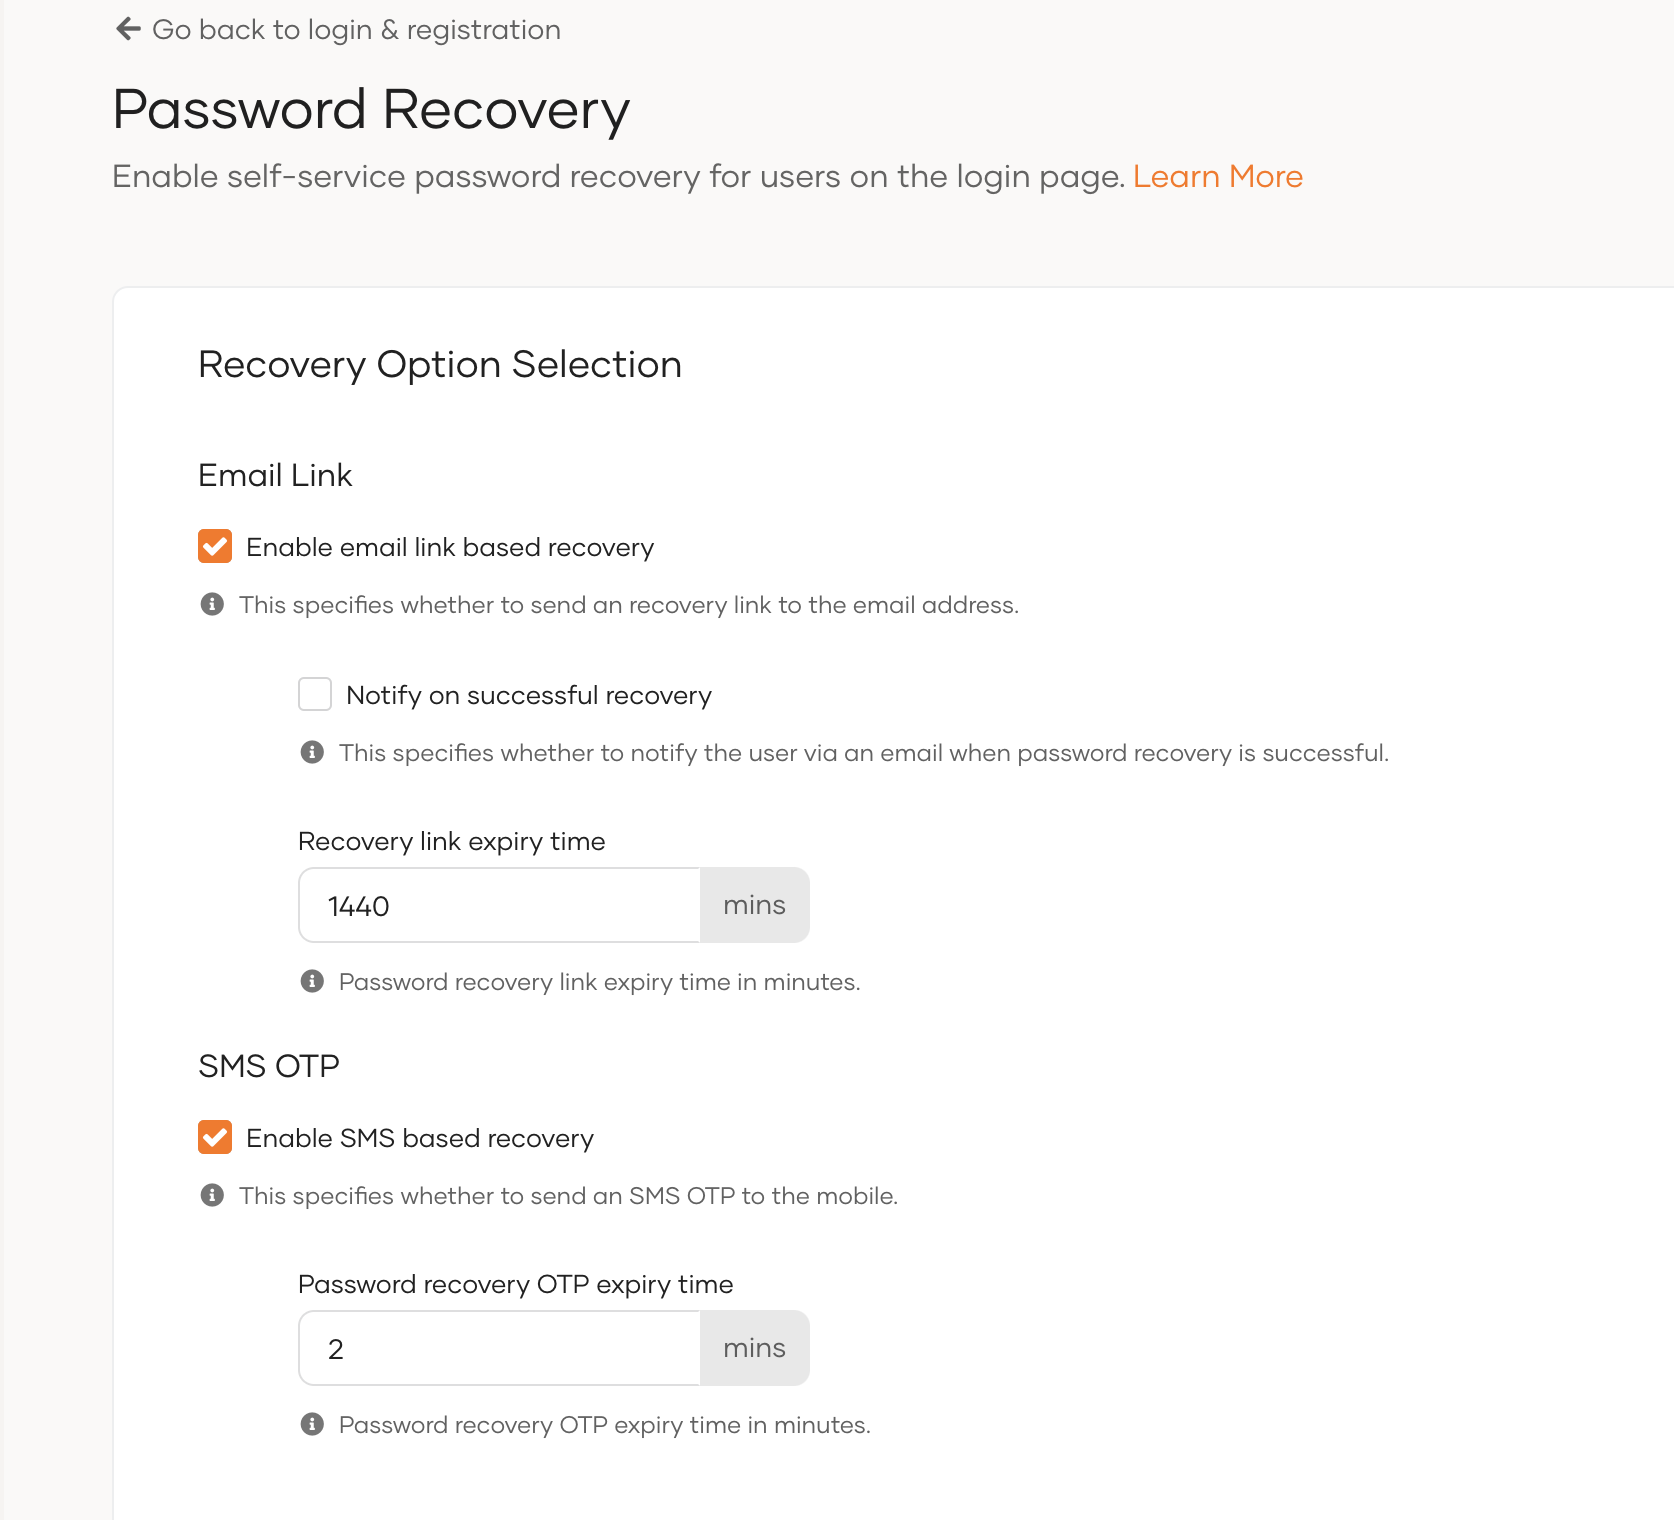
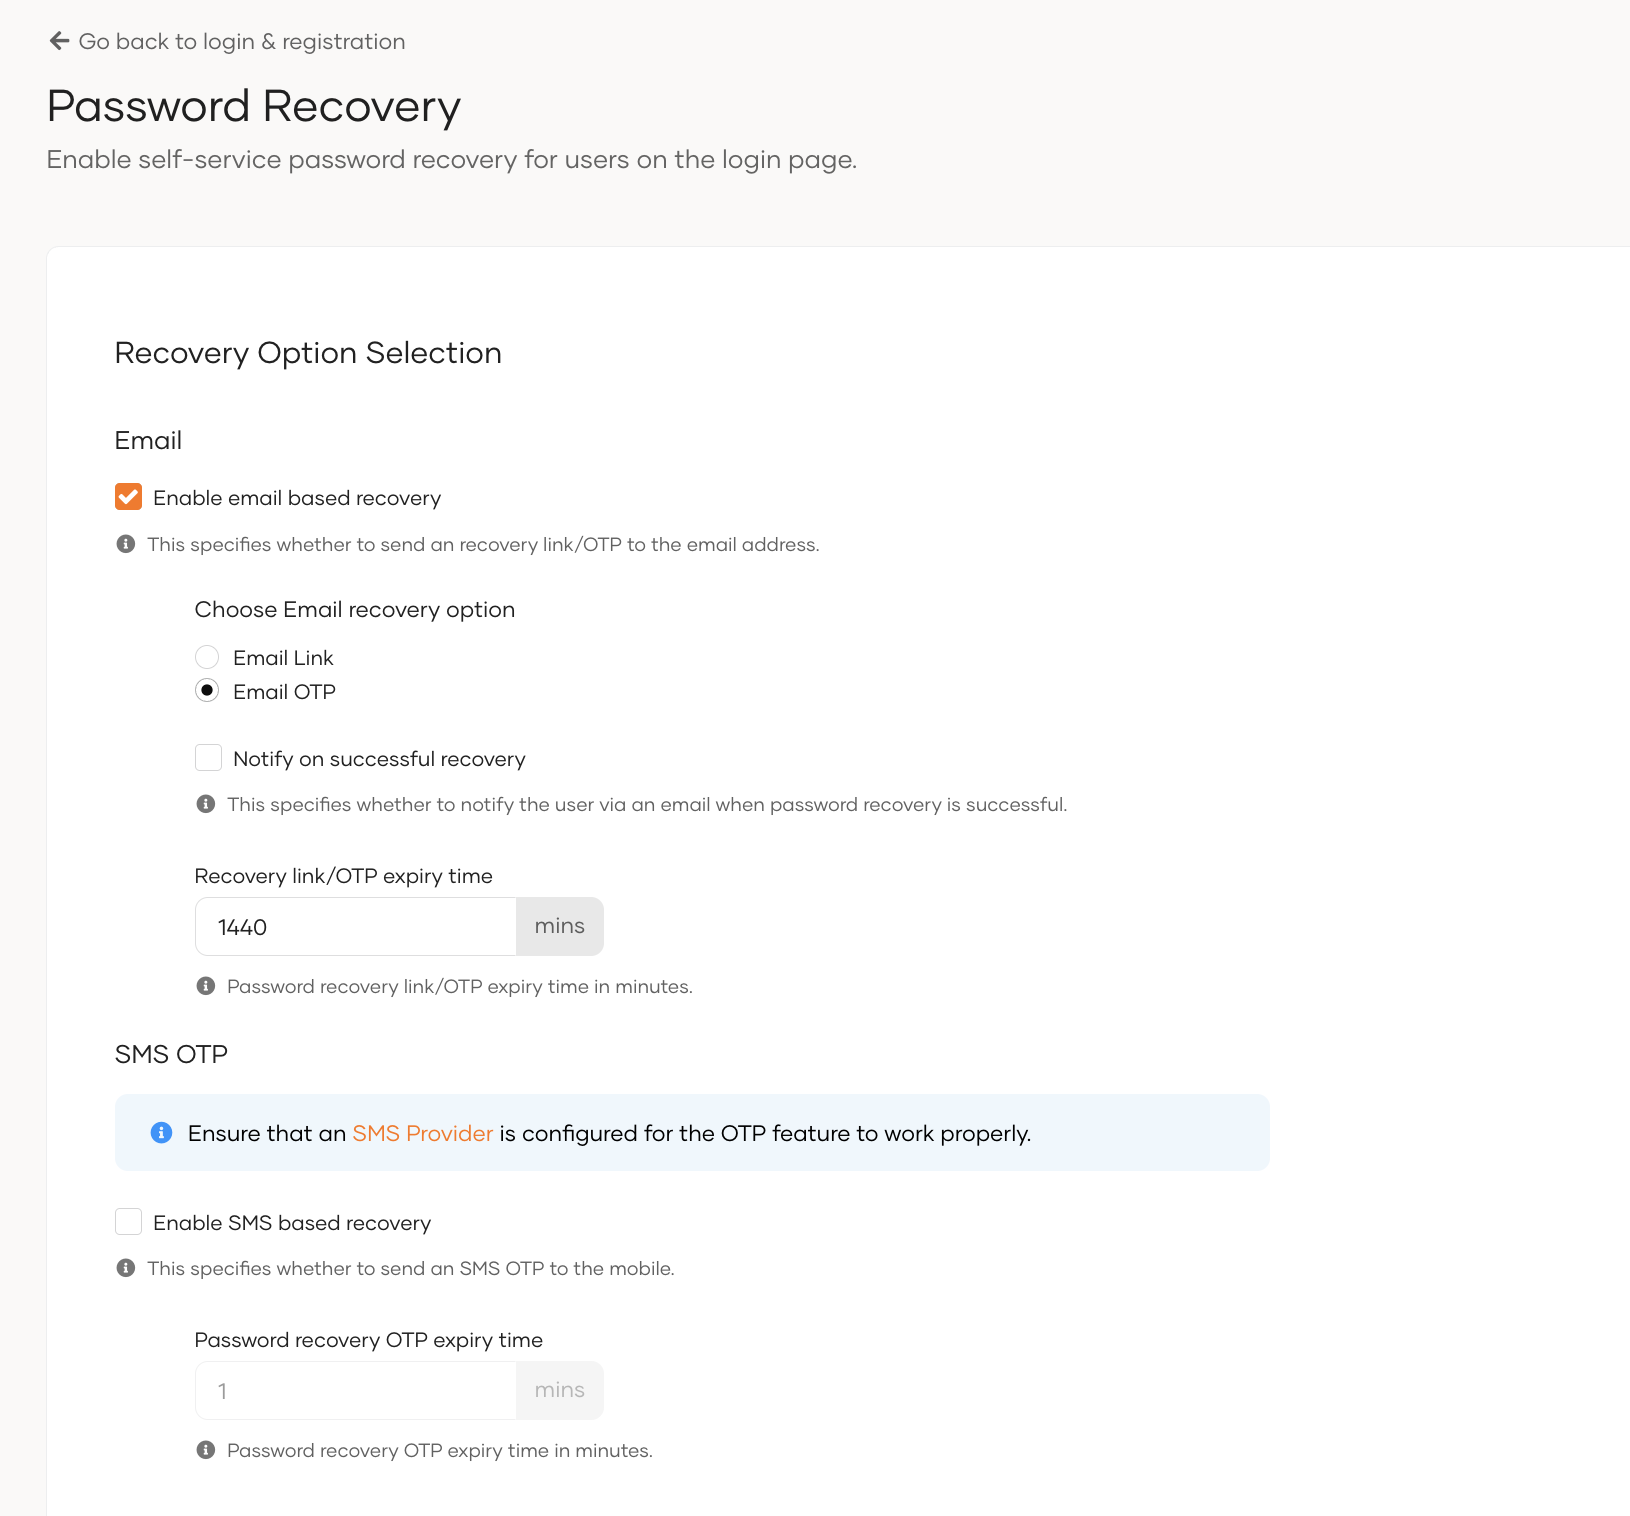
Update the docs pages.

diff --git a/en/includes/guides/admin-portal/recover-password.md b/en/includes/guides/admin-portal/recover-password.md
@@ -10,7 +10,25 @@ To recover your password:
 
 2. Click **Forgot password?**.
 
-{% if product_name == "Asgardeo" or (product_name == "WSO2 Identity Server" and is_version != "7.0.0" ) %}
+{% if product_name == "Asgardeo" or (product_name == "WSO2 Identity Server" and is_version >= "7.2.0" ) %}
+3. Follow one of the following methods based on the password recovery option configured for your organization.
+
+    !!! note
+
+        - Setting your email address and mobile number is mandatory to use the email link/OTP and SMS OTP recovery methods respectively.
+
+        - If you have configured both options for password recovery, select your preferred method and click **Proceed**.
+
+    - For email link recovery, enter your username and click **Send Reset Link**. An email notification will be sent to your email address.
+        ![Forgot your password]({{base_path}}/assets/img/guides/organization/self-service/customer/password-recovery-option-email-only.png){: width="300" style="display: block; margin: 0; border: 0.3px solid lightgrey;"}
+    
+    - For email OTP recovery, enter your username and click **Send Email OTP**. An OTP code will be sent to your registered email address.
+        ![Forgot your password]({{base_path}}/assets/img/guides/organization/self-service/customer/password-recovery-option-email-otp.png){: width="300" style="display: block; margin: 0; border: 0.3px solid lightgrey;"}
+
+    - For SMS OTP recovery, enter your username and click **Send SMS OTP**. An OTP code will be sent to your registered mobile number.
+        ![Forgot your password]({{base_path}}/assets/img/guides/organization/self-service/customer/password-recovery-option-sms-only.png){: width="300" style="display: block; margin: 0; border: 0.3px solid lightgrey;"}
+
+{% elif product_name == "Asgardeo" or (product_name == "WSO2 Identity Server" and is_version != "7.0.0" ) %}
 3. Follow one of the following methods based on the password recovery option configured for your organization.
 
     !!! note
@@ -33,7 +51,19 @@ To recover your password:
 
 {% endif %}
 
-{% if product_name == "Asgardeo" or (product_name == "WSO2 Identity Server" and is_version != "7.0.0" ) %}
+{% if product_name == "Asgardeo" or (product_name == "WSO2 Identity Server" and is_version != "7.1.0" ) %}
+4. Confirm password reset request.
+    - If the **Email Link** option was chosen in the previous step, open the email you received and click **Reset Password**.
+        ![Reset password email]({{base_path}}/assets/img/guides/organization/self-service/customer/reset-password-email.png){: width="500" style="display: block; margin: 0; border: 0.3px solid lightgrey;"}
+
+    - If the **EMAIL OTP** option was chosen in the previous step, enter the OTP code sent to your email and click **Continue**.
+        ![Reset password email OTP]({{base_path}}/assets/img/guides/organization/self-service/customer/reset-password-email-otp.png){: width="300" style="display: block; margin: 0; border: 0.3px solid lightgrey;"}
+
+    - If the **SMS OTP** option was chosen in the previous step, enter the OTP code sent to your mobile and click **Continue**.
+        ![Reset password SMS OTP]({{base_path}}/assets/img/guides/organization/self-service/customer/reset-password-sms-otp.png){: width="300" style="display: block; margin: 0; border: 0.3px solid lightgrey;"}
+
+
+{% elif product_name == "Asgardeo" or (product_name == "WSO2 Identity Server" and is_version != "7.0.0" ) %}
 4. Confirm password reset request.
     - If the **Email Link** option was chosen in the previous step, open the email you received and click **Reset Password**.
         ![Reset password email]({{base_path}}/assets/img/guides/organization/self-service/customer/reset-password-email.png){: width="500" style="display: block; margin: 0; border: 0.3px solid lightgrey;"}

diff --git a/en/includes/guides/user-self-service/user-password-recovery.md b/en/includes/guides/user-self-service/user-password-recovery.md
@@ -4,15 +4,7 @@ Users may recover a forgotten password from an application sign-in page by follo
 
 !!! note "Before you begin"
 
-    {% if product_name == "Asgardeo" or (product_name == "WSO2 Identity Server" and is_version != "7.0.0" ) %}
-
-    Administrators should [enable password recovery]({{base_path}}/guides/user-accounts/password-recovery/) for users of the organization.
-
-    {% else %}
-
     Administrators should [enable password recovery]({{base_path}}/guides/account-configurations/account-recovery/password-recovery/) for users of the organization.
-
-    {% endif %}
 
 ## Recover a forgotten password
 
@@ -32,13 +24,21 @@ To reset the password, the user should follow these steps.
 3. Follow one of the following methods based on the password recovery option configured for your organization.
 
     !!! note
-
+        {% if product_name == "WSO2 Identity Server" and is_version != "7.1.0" %}
         - Setting your email address and mobile number is mandatory to use the email link and SMS OTP recovery methods respectively.
+        {% else %}
+        - Setting your email address and mobile number is mandatory to use the email link/OTP and SMS OTP recovery methods respectively.
+        {% endif %}
 
         - If the organization has configured both options for password recovery, select your preferred method and click **Proceed**.
 
     - If you have enabled email link recovery, enter your username and click **Send Reset Link**. An email notification will be sent to your email address.
         ![Forgot your password]({{base_path}}/assets/img/guides/organization/self-service/customer/password-recovery-option-email-only.png){: width="300" style="display: block; margin: 0; border: 0.3px solid lightgrey;"}
+    
+    {% if product_name == "WSO2 Identity Server" and is_version >= "7.2.0" %}
+    - If you have enabled email OTP recovery, enter your username and click **Send Email OTP**. An OTP code will be sent to your registered email address.
+        ![Forgot your password]({{base_path}}/assets/img/guides/organization/self-service/customer/password-recovery-option-email-otp.png){: width="300" style="display: block; margin: 0; border: 0.3px solid lightgrey;"}
+    {% endif %}
 
     - If you have enabled SMS OTP recovery, enter your username and click **Send SMS OTP**. An OTP code will be sent to your registered mobile number.
         ![Forgot your password]({{base_path}}/assets/img/guides/organization/self-service/customer/password-recovery-option-sms-only.png){: width="300" style="display: block; margin: 0; border: 0.3px solid lightgrey;"}
@@ -46,6 +46,13 @@ To reset the password, the user should follow these steps.
 4. Confirm password reset request.
     - If the **Email Link** option was chosen in the previous step, open the email you received and click **Reset Password**.
         ![Reset password email]({{base_path}}/assets/img/guides/organization/self-service/customer/reset-password-email.png){: width="500" style="display: block; margin: 0; border: 0.3px solid lightgrey;"}
+
+    {% if product_name == "WSO2 Identity Server" and is_version >= "7.2.0" %}
+
+      - If the **EMAIL OTP** option was chosen in the previous step, enter the OTP code sent to your email and click **Continue**.
+            ![Reset password email OTP]({{base_path}}/assets/img/guides/organization/self-service/customer/reset-password-email-otp.png){: width="300" style="display: block; margin: 0; border: 0.3px solid lightgrey;"}
+
+    {% endif %}
 
     - If SMS OTP option was chosen in the previous step, enter the OTP code sent to your mobile and click **Continue**.
         ![Reset password SMS OTP]({{base_path}}/assets/img/guides/organization/self-service/customer/reset-password-sms-otp.png){: width="300" style="display: block; margin: 0; border: 0.3px solid lightgrey;"}

diff --git a/en/includes/guides/account-configurations/account-recovery/password-recovery.md b/en/includes/guides/account-configurations/account-recovery/password-recovery.md
@@ -28,6 +28,49 @@ To do so,
 
 {% else %}
 
+{% if product_name == "Asgardeo" or (product_name == "WSO2 Identity Server" and is_version >= "7.2.0" ) %}
+
+You may enable self-service password recovery for users so that they may reset their forgotten passwords right from the login page. Users can click the `Forgot password?` option and either receive an Email Link/OTP or a SMS OTP to reset the password.
+
+To do so,
+
+1. On the {{product_name}} Console, go to **Login & Registration**.
+2. Under **Account Recovery**, click on **Password Recovery**.
+4. Select both **Email** and **SMS OTP** or one of the options to enable them for your organization.
+  
+    ![Password Recovery Configuration]({{base_path}}/assets/img/guides/organization/account-recovery/password-recovery/configure-password-recovery.png){: width="800" style="display: block; margin: 0;"}
+
+5. Configure the corresponding settings.
+    <table>
+        <tbody>
+            <tr>
+                <td><h3>Email Link/OTP</h3></td>
+                <td></td>
+            </tr>
+            <tr>
+                <td><b>Notify on successful recovery</b></td>
+                <td>Specifies whether to notify the user via an email when password recovery is successful.</td>
+            </tr>
+            <tr>
+                <td><b>Recovery link expiry time</b></td>
+                <td>Specifies the duration (in minutes) after which the email link/OTP will expire.</td>
+            </tr>
+        </tbody>
+    <table>
+        <tbody>
+            <tr>
+                <td><h3>SMS OTP</h3></td>
+                <td></td>
+            </tr>
+            <tr>
+                <td><b>Password recovery OTP expiry time</b></td>
+                <td>Specifies the duration (in minutes) after which the OTP code sent through SMS will expire.</td>
+            </tr>
+        </tbody>
+    </table>
+
+{% elif product_name == "Asgardeo" or (product_name == "WSO2 Identity Server" and is_version == "7.1.0" ) %}
+
 You may enable self-service password recovery for users so that they may reset their forgotten passwords right from the login page. Users can click the `Forgot password?` option and either receive an email or a mobile OTP to reset the password.
 
 To do so,
@@ -68,6 +111,7 @@ To do so,
             </tr>
         </tbody>
     </table>
+{% endif %}
 
 6. Configure the following settings if you wish to customize the OTP pattern.
     
